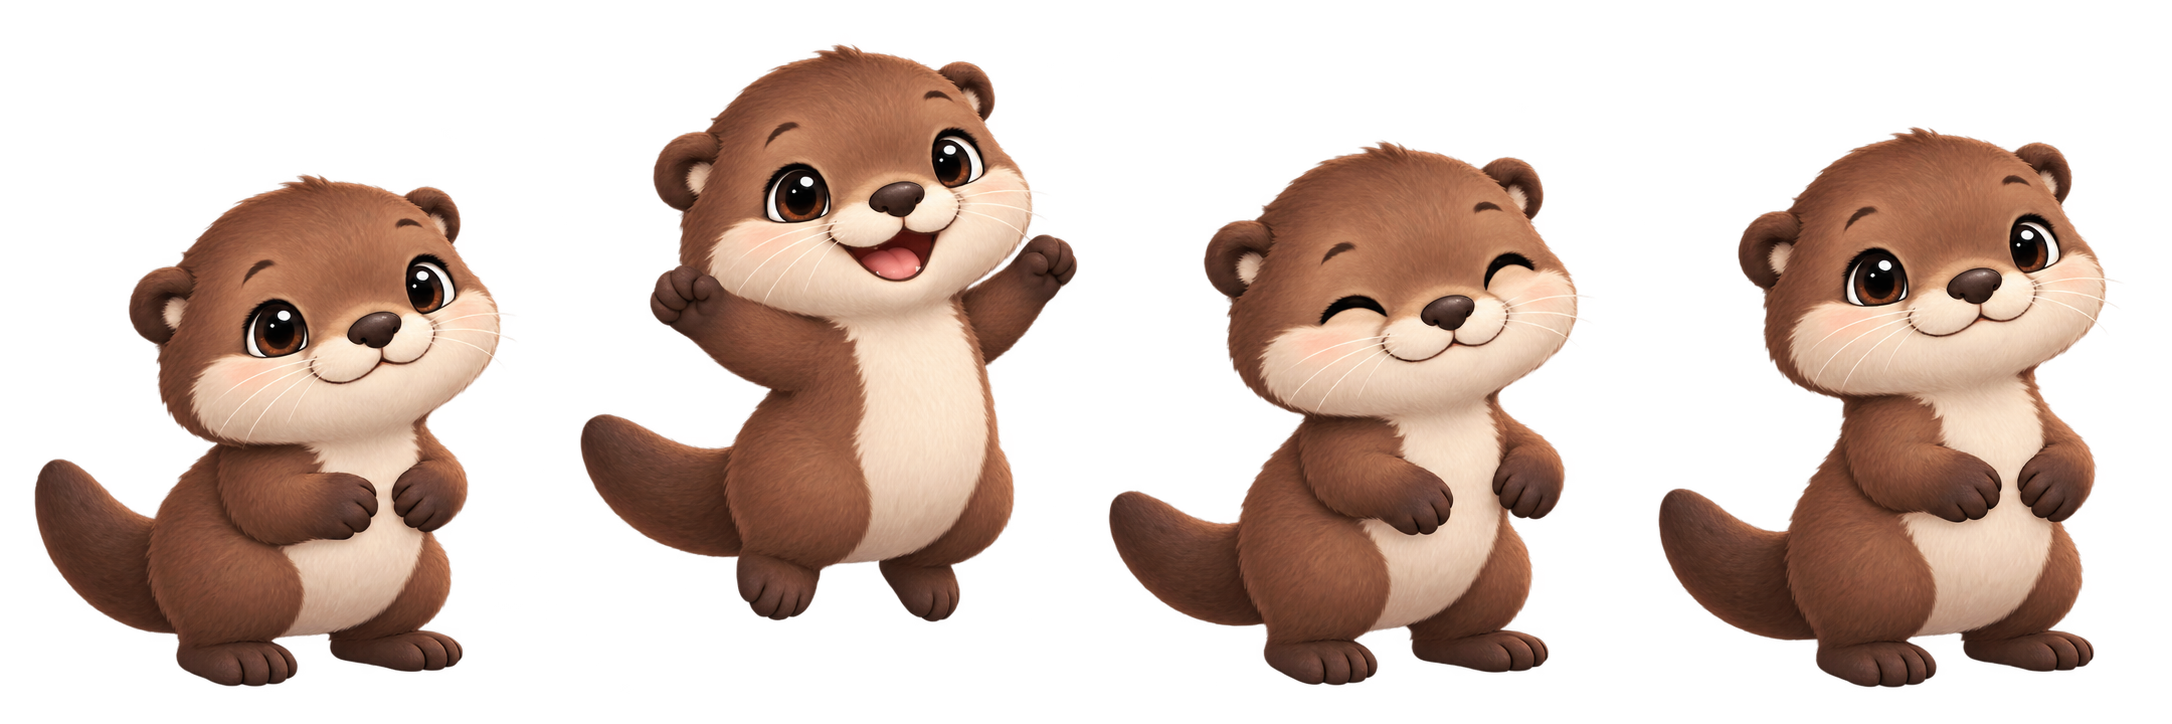
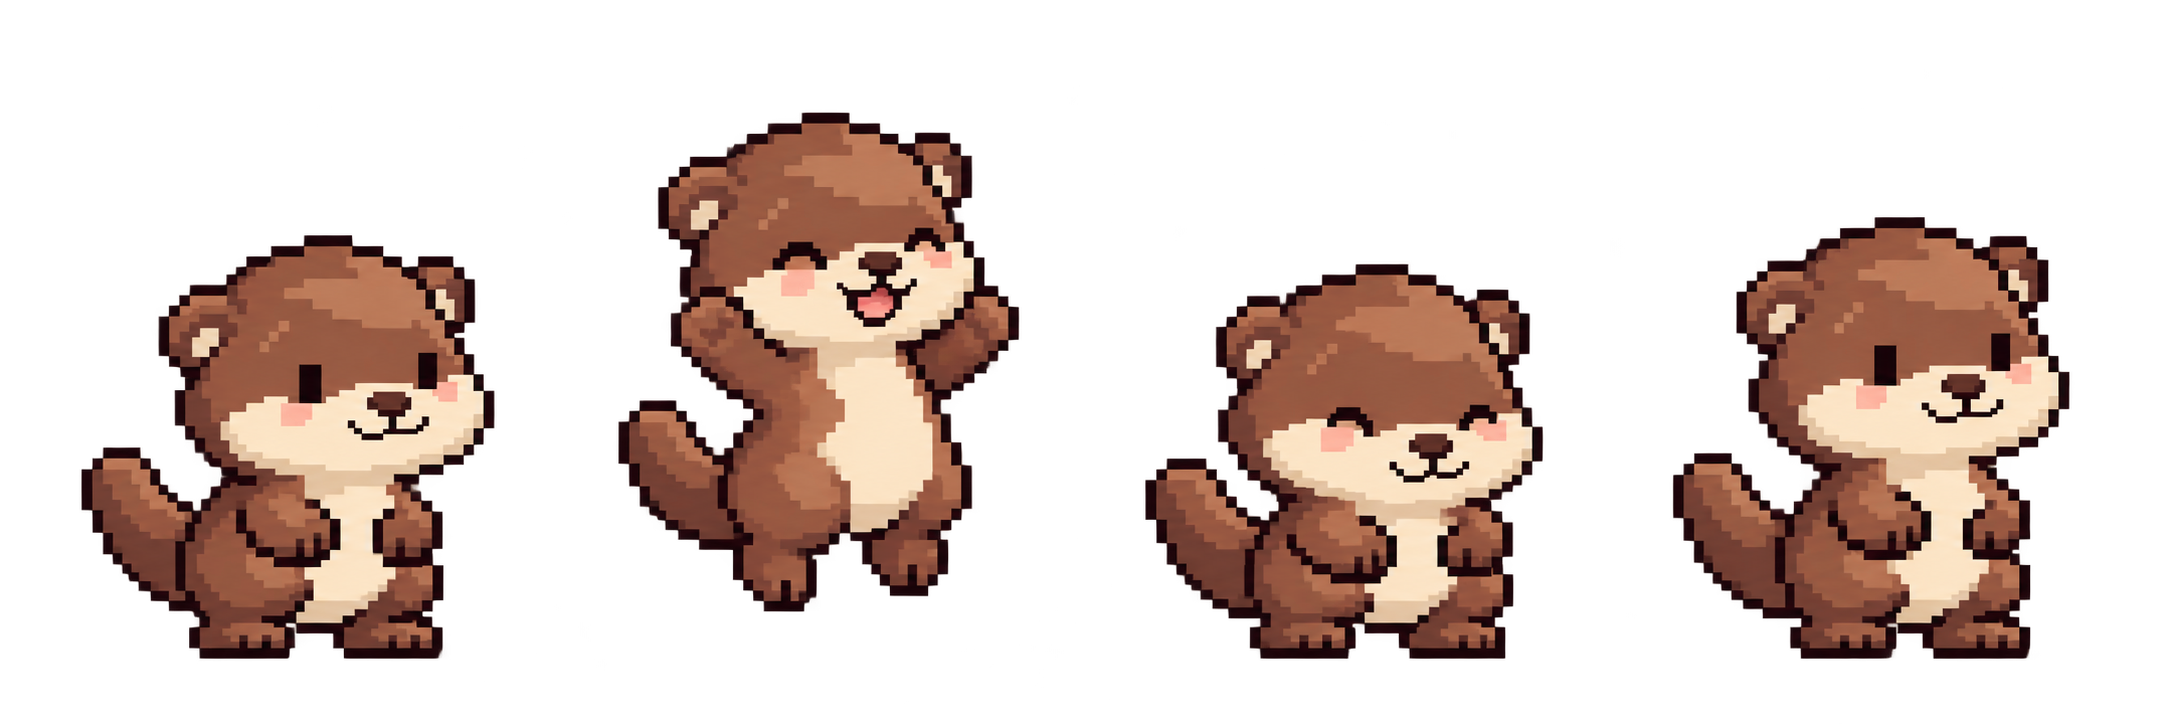
Restyle calendar pets as limited-palette pixel sprites

diff --git a/app/chore-quests.css b/app/chore-quests.css
@@ -53,7 +53,7 @@ main { grid-template-columns: minmax(0, 1fr); }
 
 .quest-hero, .quest-chest { image-rendering: auto; }
 
-.quest-character { display: block; width: 100%; aspect-ratio: 12 / 13; background-size: 400% 200%; background-repeat: no-repeat; image-rendering: auto; animation: character-idle 3s steps(1, end) infinite; }
+.quest-character { display: block; width: 100%; aspect-ratio: 12 / 13; background-size: 400% 200%; background-repeat: no-repeat; image-rendering: pixelated; animation: character-idle 3s steps(1, end) infinite; }
 .quest-character.character-celebrate { background-position-y: 100%; animation: character-celebrate .9s steps(4, end) 2; }
 @keyframes character-idle {
   0%, 65% { background-position-x: 0%; }

diff --git a/.agents/skills/create-character/scripts/assemble.py b/.agents/skills/create-character/scripts/assemble.py
@@ -5,7 +5,8 @@ from pathlib import Path
 from PIL import Image, ImageChops
 
 
-def assemble(idle, celebrate, output, preview_dir):
+def assemble(idle, celebrate, output, preview_dir, pixel_art=False):
+    resampling = Image.Resampling.NEAREST if pixel_art else Image.Resampling.LANCZOS
     frames = []
     for source in (idle, celebrate):
         strip = Image.open(source).convert("RGBA")
@@ -13,13 +14,23 @@ def assemble(idle, celebrate, output, preview_dir):
             raise ValueError(f"{source}: width must divide into four cells")
         for index in range(4):
             frame = strip.crop((index * strip.width // 4, 0, (index + 1) * strip.width // 4, strip.height))
-            frame = frame.resize((384, 512), Image.Resampling.LANCZOS)
+            frame = frame.resize((384, 512), resampling)
             bounds = frame.getchannel("A").point(lambda a: 255 if a > 24 else 0).getbbox()
             if not bounds:
                 raise ValueError(f"{source}: blank frame {index}")
             if bounds[0] == 0 or bounds[1] == 0 or bounds[2] == 384 or bounds[3] == 512:
                 raise ValueError(f"{source}: frame {index} touches its edge; check clipping/background")
             frames.append(frame)
+    if pixel_art:
+        # Register both strips using their resting final pose, preserving hop height.
+        for start in (0, 4):
+            rest = frames[start + 3].getchannel("A").getbbox()
+            factor = 300 / (rest[3] - rest[1])
+            for index in range(start, start + 4):
+                registered = Image.new("RGBA", (384, 512))
+                registered.alpha_composite(frames[index].resize((round(384 * factor), round(512 * factor)), resampling),
+                                           (round(192 - (rest[0] + rest[2]) / 2 * factor), round(450 - rest[3] * factor)))
+                frames[index] = registered
     bounds = [f.getchannel("A").getbbox() for f in frames]
     shared = (min(b[0] for b in bounds), min(b[1] for b in bounds), max(b[2] for b in bounds), max(b[3] for b in bounds))
     scale = min(176 / (shared[2] - shared[0]), 192 / (shared[3] - shared[1]))
@@ -27,12 +38,22 @@ def assemble(idle, celebrate, output, preview_dir):
     cells = []
     for frame in frames:
         cell = Image.new("RGBA", (192, 208))
-        cell.alpha_composite(frame.crop(shared).resize(size, Image.Resampling.LANCZOS), ((192 - size[0]) // 2, 200 - size[1]))
+        cell.alpha_composite(frame.crop(shared).resize(size, resampling), ((192 - size[0]) // 2, 200 - size[1]))
         cells.append(cell)
     atlas = Image.new("RGBA", (768, 416))
     for index, cell in enumerate(cells):
         atlas.alpha_composite(cell, (index % 4 * 192, index // 4 * 208))
     output.parent.mkdir(parents=True, exist_ok=True)
+    if pixel_art:
+        atlas = atlas.resize((192, 104), Image.Resampling.NEAREST)
+        alpha = atlas.getchannel("A").point(lambda a: 255 if a >= 128 else 0)
+        atlas = atlas.convert("RGB").quantize(colors=15, dither=Image.Dither.NONE).convert("RGBA")
+        atlas.putalpha(alpha)
+        atlas.paste((0, 0, 0, 0), mask=alpha.point(lambda a: 255 - a))
+        atlas = atlas.resize((768, 416), Image.Resampling.NEAREST)
+        cells = [atlas.crop((i % 4 * 192, i // 4 * 208, (i % 4 + 1) * 192, (i // 4 + 1) * 208)) for i in range(8)]
+        assert len(atlas.getcolors(17) or []) in range(1, 17)
+        assert {value for count, value in atlas.getchannel("A").getcolors()} <= {0, 255}
     atlas.save(output)
     decoded = Image.open(output).convert("RGBA")
     assert decoded.size == (768, 416)
@@ -55,7 +76,8 @@ def assemble(idle, celebrate, output, preview_dir):
 
 if __name__ == "__main__":
     parser = argparse.ArgumentParser(description=__doc__)
+    parser.add_argument("--pixel-art", action="store_true", help="Use a 48×52 logical cell and a shared 16-color palette")
     for name in ("idle", "celebrate", "output", "preview-dir"):
         parser.add_argument("--" + name, type=Path, required=True)
     args = parser.parse_args()
-    assemble(args.idle, args.celebrate, args.output, args.preview_dir)
+    assemble(args.idle, args.celebrate, args.output, args.preview_dir, args.pixel_art)

diff --git a/docs/characters/dragon/PROMPTS.md b/docs/characters/dragon/PROMPTS.md
@@ -1,24 +1,23 @@
-# Moss the dragon
+# dragon — calendar pet
 
-Created using the project Create Character skill and built-in image generation. Base and source strips are preserved here; final two-state atlas: `app/public/characters/dragon.png`.
+Created with built-in image generation, using the screenshot's left pet as the style reference.
 
 ## Base prompt
 
-Canonical base design for a small animated desktop companion, inspired by charming modern virtual pets. A cute baby dragon, mint-green skin, warm pale-yellow belly, two tiny rounded ivory horns, small peach inner wings, a curled tail, stubby paws, big glossy dark eyes and a tiny friendly smile. Name: Moss. Rounded squishy plush-toy proportions, oversized expressive head, compact pear-shaped body, soft matte material with delicate hand-painted shading, clean smooth silhouette, appealing simple face, cozy wholesome personality. Full body standing in a relaxed pose, three-quarter view very slightly facing right but engaging the viewer. NOT pixel art, NOT realistic anatomy, NOT intricate fantasy illustration. No props. True transparent background, no floor, no ground shadow, no glow, no loose effects, no text. Square canvas with generous transparent margin around the complete character.
+Use case: stylized-concept. Canonical calendar pet base, true transparent background. Create ONE cute full-body PET in chunky 16-bit console pixel art, like the LEFT creature in supplied screenshot: visible large square pixels, dark stepped outline, flat clustered shading, maximum 12 colors, NO antialiasing, NO gradients, NO 3D rendering, NO fur texture, NO glossy eyes. Logical sprite about 40x44 pixels enlarged with nearest-neighbor. Compact oversized head, tiny rectangular black eyes, friendly simple face, stubby limbs. Center with generous empty margin. No text, props, ground or shadow. Moss, mint-green dragon with cream belly, ivory horns, peach wings and curled tail. Match the otter style.
 
-## Idle prompt
+## Animation prompts
 
-Create a horizontal animation strip of EXACTLY FOUR complete copies of the attached dragon character. Canvas 1536 wide by 512 tall, four equal invisible 384x512 cells. Center each body on x=192,576,960,1344 respectively; resting feet at y=450, top of head near y=150, body height about 300px. Keep head, feet, wings and tail INSIDE their own cell with at least 24px transparent margin. All four poses must be fully visible, separated by generous transparent gutters. Four poses from LEFT to RIGHT: 1 relaxed smiling rest with open eyes; 2 tiny breathing inhale, chest rises slightly, head and tail subtly follow; 3 peaceful blink with eyes closed, same smile and planted feet; 4 eyes reopen and breathe out, returning close to pose 1. Calm alive loop, NOT walking or waving. Copy the exact face, fur/skin, colors, plush proportions, tail and details from the base reference. One consistent camera slightly facing right, same lighting and scale. True transparent background throughout, including gaps; no text, numbers, dividers, guides, floor, shadows, glows, stars, trails, extra props or duplicate limbs. The output is ONE row of four equally spaced poses, not a scene and not a collage.
+Generate a horizontal 1536x512 transparent sprite strip of EXACTLY FOUR full-body copies of the reference pet in four equal 384x512 invisible cells. Centers x=192,576,960,1344; planted feet y=450, heads around y=170. All parts fully inside each cell with 30px margin. Preserve identity, chunky 16-bit pixel art, square pixel clusters, dark stepped outlines, flat limited palette (12 colors), no smooth shading, gradients or antialiasing. Same camera, size and ground line throughout. STATE. No text, guides, floor, shadows, effects or props. True alpha transparent gaps.
 
-## Celebrate prompt
+Idle STATE: Left to right: 1 relaxed smile eyes open paws at belly; 2 subtle breathing inhale with slight tail lift, feet planted; 3 blink eyes closed, feet planted; 4 relaxed eyes open close to first pose.
 
-Create a horizontal animation strip of EXACTLY FOUR complete copies of the attached dragon character. Canvas 1536 wide by 512 tall, four equal invisible 384x512 cells. Center each body on x=192,576,960,1344 respectively; resting feet at y=450, top of head near y=150, body height about 300px. Keep head, feet, wings and tail INSIDE their own cell with at least 24px transparent margin. All four poses must be fully visible, separated by generous transparent gutters. Four poses from LEFT to RIGHT: 1 small anticipation crouch with delighted smile; 2 joyful airborne hop, paws raised, open happy mouth, feet lifted 45 pixels above the common ground line, wings/ears following naturally; 3 happy landing, knees gently bent, eyes squeezed with delight, paws starting to lower; 4 relaxed smiling rest close to the canonical base, paws on belly. Same size all frames: airborne pose moves upward, not grows. No floating effects. Copy the exact face, fur/skin, colors, plush proportions, tail and details from the base reference. One consistent camera slightly facing right, same lighting and scale. True transparent background throughout, including gaps; no text, numbers, dividers, guides, floor, shadows, glows, stars, trails, extra props or duplicate limbs. The output is ONE row of four equally spaced poses, not a scene and not a collage.
+Celebrate STATE: Left to right: 1 anticipation crouch; 2 joyful hop with both paws raised and happy open mouth, entire body moves UP 55 pixels with feet above ground; 3 happy squashed landing eyes closed paws lower; 4 return to resting smile eyes open paws at belly. Change expression and limbs; no size growth.
 
+Extra instruction: generous gutters, at most 75% cell width. Otter celebration was regenerated with 65% cell width and 55% height after a cell-boundary failure.
 
 ## Review
 
-- Base and both four-pose strips inspected; the face, palette, body parts, and material remain consistent.
-- Final transparent atlas passes the assembler's eight-cell structural checks. Idle includes an open-eye rest, breathing variation, blink, and return; celebrate includes a crouch, raised-paw airborne pose, happy landing, and rest.
-- Shared framing preserves jump height. Small pose squash and tail movement are visible; no cell clipping or neighboring-frame bleed at the quest display size.
-- Browser verification passed: idle frame changes, completion celebration, repeated tap and Enter replay, return to idle, initial-load idle, and static first frame under reduced motion. Desktop/light and mobile/dark layouts inspected.
-- `previews/motion.gif` shows idle → celebrate → idle from the final cells. This is the local two-state format, not a ChatGPT Pets upload.
+Base, strips, atlas and preview frames inspected. Eight complete poses with a blink, crouch, airborne hop and landing. Some generated squash and proportion variation remains between states. Assembly uses --pixel-art: resting-pose registration, 48×52 logical cells, shared 15-color RGB palette plus transparency, nearest-neighbor scaling. Structural checks pass for frame variation, binary alpha, palette and dimensions. Existing replay and reduced-motion behavior is unchanged. All 107 tests and production build passed; no hardware kiosk verification performed.
+
+Final: app/public/characters/dragon.png. Animation preview: previews/motion.gif.

diff --git a/docs/characters/otter/PROMPTS.md b/docs/characters/otter/PROMPTS.md
@@ -1,24 +1,23 @@
-# Pebble the otter
+# otter — calendar pet
 
-Created using the project Create Character skill and built-in image generation. Base and source strips are preserved here; final two-state atlas: `app/public/characters/otter.png`.
+Created with built-in image generation, using the screenshot's left pet as the style reference.
 
 ## Base prompt
 
-Canonical base design for a small animated desktop companion, inspired by charming modern virtual pets. A cute baby river otter, warm cocoa-brown fur, cream muzzle and belly, tiny rounded ears, short whiskers, large glossy dark eyes, chubby cheeks, tiny paws resting on belly, visible thick rounded tail. Name: Pebble. Rounded squishy plush-toy proportions, oversized expressive head, compact pear-shaped body, soft matte material with delicate hand-painted shading, clean smooth silhouette, appealing simple face, cozy wholesome personality. Full body standing in a relaxed pose, three-quarter view very slightly facing right but engaging the viewer. NOT pixel art, NOT realistic anatomy, NOT intricate fantasy illustration. No props. True transparent background, no floor, no ground shadow, no glow, no loose effects, no text. Square canvas with generous transparent margin around the complete character.
+Use case: stylized-concept. Canonical calendar pet base, true transparent background. Create ONE cute full-body PET in chunky 16-bit console pixel art, like the LEFT creature in supplied screenshot: visible large square pixels, dark stepped outline, flat clustered shading, maximum 12 colors, NO antialiasing, NO gradients, NO 3D rendering, NO fur texture, NO glossy eyes. Logical sprite about 40x44 pixels enlarged with nearest-neighbor. Compact oversized head, tiny rectangular black eyes, friendly simple face, stubby limbs. Center with generous empty margin. No text, props, ground or shadow. Pebble, brown otter with cream muzzle and belly, round ears and curled tail.
 
-## Idle prompt
+## Animation prompts
 
-Create a horizontal animation strip of EXACTLY FOUR complete copies of the attached otter character. Canvas 1536 wide by 512 tall, four equal invisible 384x512 cells. Center each body on x=192,576,960,1344 respectively; resting feet at y=450, top of head near y=150, body height about 300px. Keep head, feet, wings and tail INSIDE their own cell with at least 24px transparent margin. All four poses must be fully visible, separated by generous transparent gutters. Four poses from LEFT to RIGHT: 1 relaxed smiling rest with open eyes; 2 tiny breathing inhale, chest rises slightly, head and tail subtly follow; 3 peaceful blink with eyes closed, same smile and planted feet; 4 eyes reopen and breathe out, returning close to pose 1. Calm alive loop, NOT walking or waving. Copy the exact face, fur/skin, colors, plush proportions, tail and details from the base reference. One consistent camera slightly facing right, same lighting and scale. True transparent background throughout, including gaps; no text, numbers, dividers, guides, floor, shadows, glows, stars, trails, extra props or duplicate limbs. The output is ONE row of four equally spaced poses, not a scene and not a collage.
+Generate a horizontal 1536x512 transparent sprite strip of EXACTLY FOUR full-body copies of the reference pet in four equal 384x512 invisible cells. Centers x=192,576,960,1344; planted feet y=450, heads around y=170. All parts fully inside each cell with 30px margin. Preserve identity, chunky 16-bit pixel art, square pixel clusters, dark stepped outlines, flat limited palette (12 colors), no smooth shading, gradients or antialiasing. Same camera, size and ground line throughout. STATE. No text, guides, floor, shadows, effects or props. True alpha transparent gaps.
 
-## Celebrate prompt
+Idle STATE: Left to right: 1 relaxed smile eyes open paws at belly; 2 subtle breathing inhale with slight tail lift, feet planted; 3 blink eyes closed, feet planted; 4 relaxed eyes open close to first pose.
 
-Create a horizontal animation strip of EXACTLY FOUR complete copies of the attached otter character. Canvas 1536 wide by 512 tall, four equal invisible 384x512 cells. Center each body on x=192,576,960,1344 respectively; resting feet at y=450, top of head near y=150, body height about 300px. Keep head, feet, wings and tail INSIDE their own cell with at least 24px transparent margin. All four poses must be fully visible, separated by generous transparent gutters. Four poses from LEFT to RIGHT: 1 small anticipation crouch with delighted smile; 2 joyful airborne hop, paws raised, open happy mouth, feet lifted 45 pixels above the common ground line, wings/ears following naturally; 3 happy landing, knees gently bent, eyes squeezed with delight, paws starting to lower; 4 relaxed smiling rest close to the canonical base, paws on belly. Same size all frames: airborne pose moves upward, not grows. No floating effects. Copy the exact face, fur/skin, colors, plush proportions, tail and details from the base reference. One consistent camera slightly facing right, same lighting and scale. True transparent background throughout, including gaps; no text, numbers, dividers, guides, floor, shadows, glows, stars, trails, extra props or duplicate limbs. The output is ONE row of four equally spaced poses, not a scene and not a collage.
+Celebrate STATE: Left to right: 1 anticipation crouch; 2 joyful hop with both paws raised and happy open mouth, entire body moves UP 55 pixels with feet above ground; 3 happy squashed landing eyes closed paws lower; 4 return to resting smile eyes open paws at belly. Change expression and limbs; no size growth.
 
+Extra instruction: generous gutters, at most 75% cell width. Otter celebration was regenerated with 65% cell width and 55% height after a cell-boundary failure.
 
 ## Review
 
-- Base and both four-pose strips inspected; the face, palette, body parts, and material remain consistent.
-- Final transparent atlas passes the assembler's eight-cell structural checks. Idle includes an open-eye rest, breathing variation, blink, and return; celebrate includes a crouch, raised-paw airborne pose, happy landing, and rest.
-- Shared framing preserves jump height. Small pose squash and tail movement are visible; no cell clipping or neighboring-frame bleed at the quest display size.
-- Browser verification passed: idle frame changes, completion celebration, repeated tap and Enter replay, return to idle, initial-load idle, and static first frame under reduced motion. Desktop/light and mobile/dark layouts inspected.
-- `previews/motion.gif` shows idle → celebrate → idle from the final cells. This is the local two-state format, not a ChatGPT Pets upload.
+Base, strips, atlas and preview frames inspected. Eight complete poses with a blink, crouch, airborne hop and landing. Some generated squash and proportion variation remains between states. Assembly uses --pixel-art: resting-pose registration, 48×52 logical cells, shared 15-color RGB palette plus transparency, nearest-neighbor scaling. Structural checks pass for frame variation, binary alpha, palette and dimensions. Existing replay and reduced-motion behavior is unchanged. All 107 tests and production build passed; no hardware kiosk verification performed.
+
+Final: app/public/characters/otter.png. Animation preview: previews/motion.gif.

diff --git a/.agents/skills/create-character/SKILL.md b/.agents/skills/create-character/SKILL.md
@@ -9,7 +9,7 @@ Adapt the ChatGPT pet creation ideas to this project: canonical identity, ground
 
 ## Generate
 
-Inspect the current quest component before replacing its art. Preserve the requested animal and personality. Default to rounded plush-like forms, expressive faces, simple readable details, and compact whole-body silhouettes. Avoid realistic anatomy and tiny decorative detail.
+Inspect the current quest component before replacing its art. These characters are calendar pets. Preserve the requested animal and personality. Default to chunky 16-bit pixel art, a limited palette, stepped dark outlines, simple readable faces, and compact whole-body silhouettes. Avoid smooth 3D shading, realistic anatomy, and tiny decorative detail.
 
 Use the built-in image generation tool for the base and every new pose. Inspect a canonical transparent base first, then attach it as the identity reference to each state strip. Do not substitute CSS movement of a still for generated character animation.
 
@@ -27,7 +27,7 @@ Keep base, source strips, and prompts in `docs/characters/<slug>/`. Final artwor
 Run the bundled helper with a Python runtime providing Pillow:
 
 ```sh
-python3 .agents/skills/create-character/scripts/assemble.py --idle docs/characters/<slug>/idle.png --celebrate docs/characters/<slug>/celebrate.png --output app/public/characters/<slug>.png --preview-dir docs/characters/<slug>/previews
+python3 .agents/skills/create-character/scripts/assemble.py --idle docs/characters/<slug>/idle.png --celebrate docs/characters/<slug>/celebrate.png --output app/public/characters/<slug>.png --preview-dir docs/characters/<slug>/previews --pixel-art
 ```
 
 The local atlas is **768×416**, four 192×208 cells per row: idle first, celebrate second. The helper applies a common crop/scale, retaining authored registration and airborne motion, then writes a structural report and idle→celebrate→idle GIF. It does not judge artistic quality.
